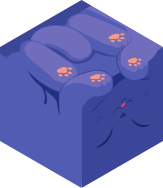
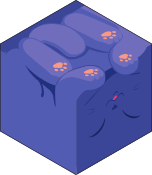
add simple flip

diff --git a/js/single.js b/js/single.js
@@ -2,14 +2,35 @@ $(document).ready(function() {
     var curTileId = '';
     $("#cat-long").children().css('transform', 'rotate(0deg) translateY(-20%)');
 
-    ////// ROTATION //////
+    ////// KEYBOARD HANDLER //////
     $(document).on('keydown', function(e) {
         if (curTileId == '') {
             return;
         }
 
         Rotate(e.keyCode);
+        Flip(e.keyCode);
     });
+
+    function Flip(keyCode) {
+        if (keyCode != 83) {
+            return;
+        }
+
+        var image = $('#' + curTileId).children()[0];
+
+        var strImageUrl = image.src;
+        var index = strImageUrl.indexOf('/pictures/');
+        var fileName = strImageUrl.substring(index + 10);
+        
+        var newFileName = fileName.split('.')[0] + "-back.png";
+        if (fileName.includes("back")) {
+            var parts = fileName.split("-back");
+            newFileName = parts[0] + parts[1];
+        }
+
+        $('#' + curTileId).children().attr("src", strImageUrl.substring(0, index + 10) + newFileName);
+    }
 
     function Rotate(keyCode) {
         var rotation = 0;
@@ -38,7 +59,6 @@ $(document).ready(function() {
                 rotation -= 360;
             }
         }
-
 
         if (curTileId == "cat-long") {
             console.log("done");
